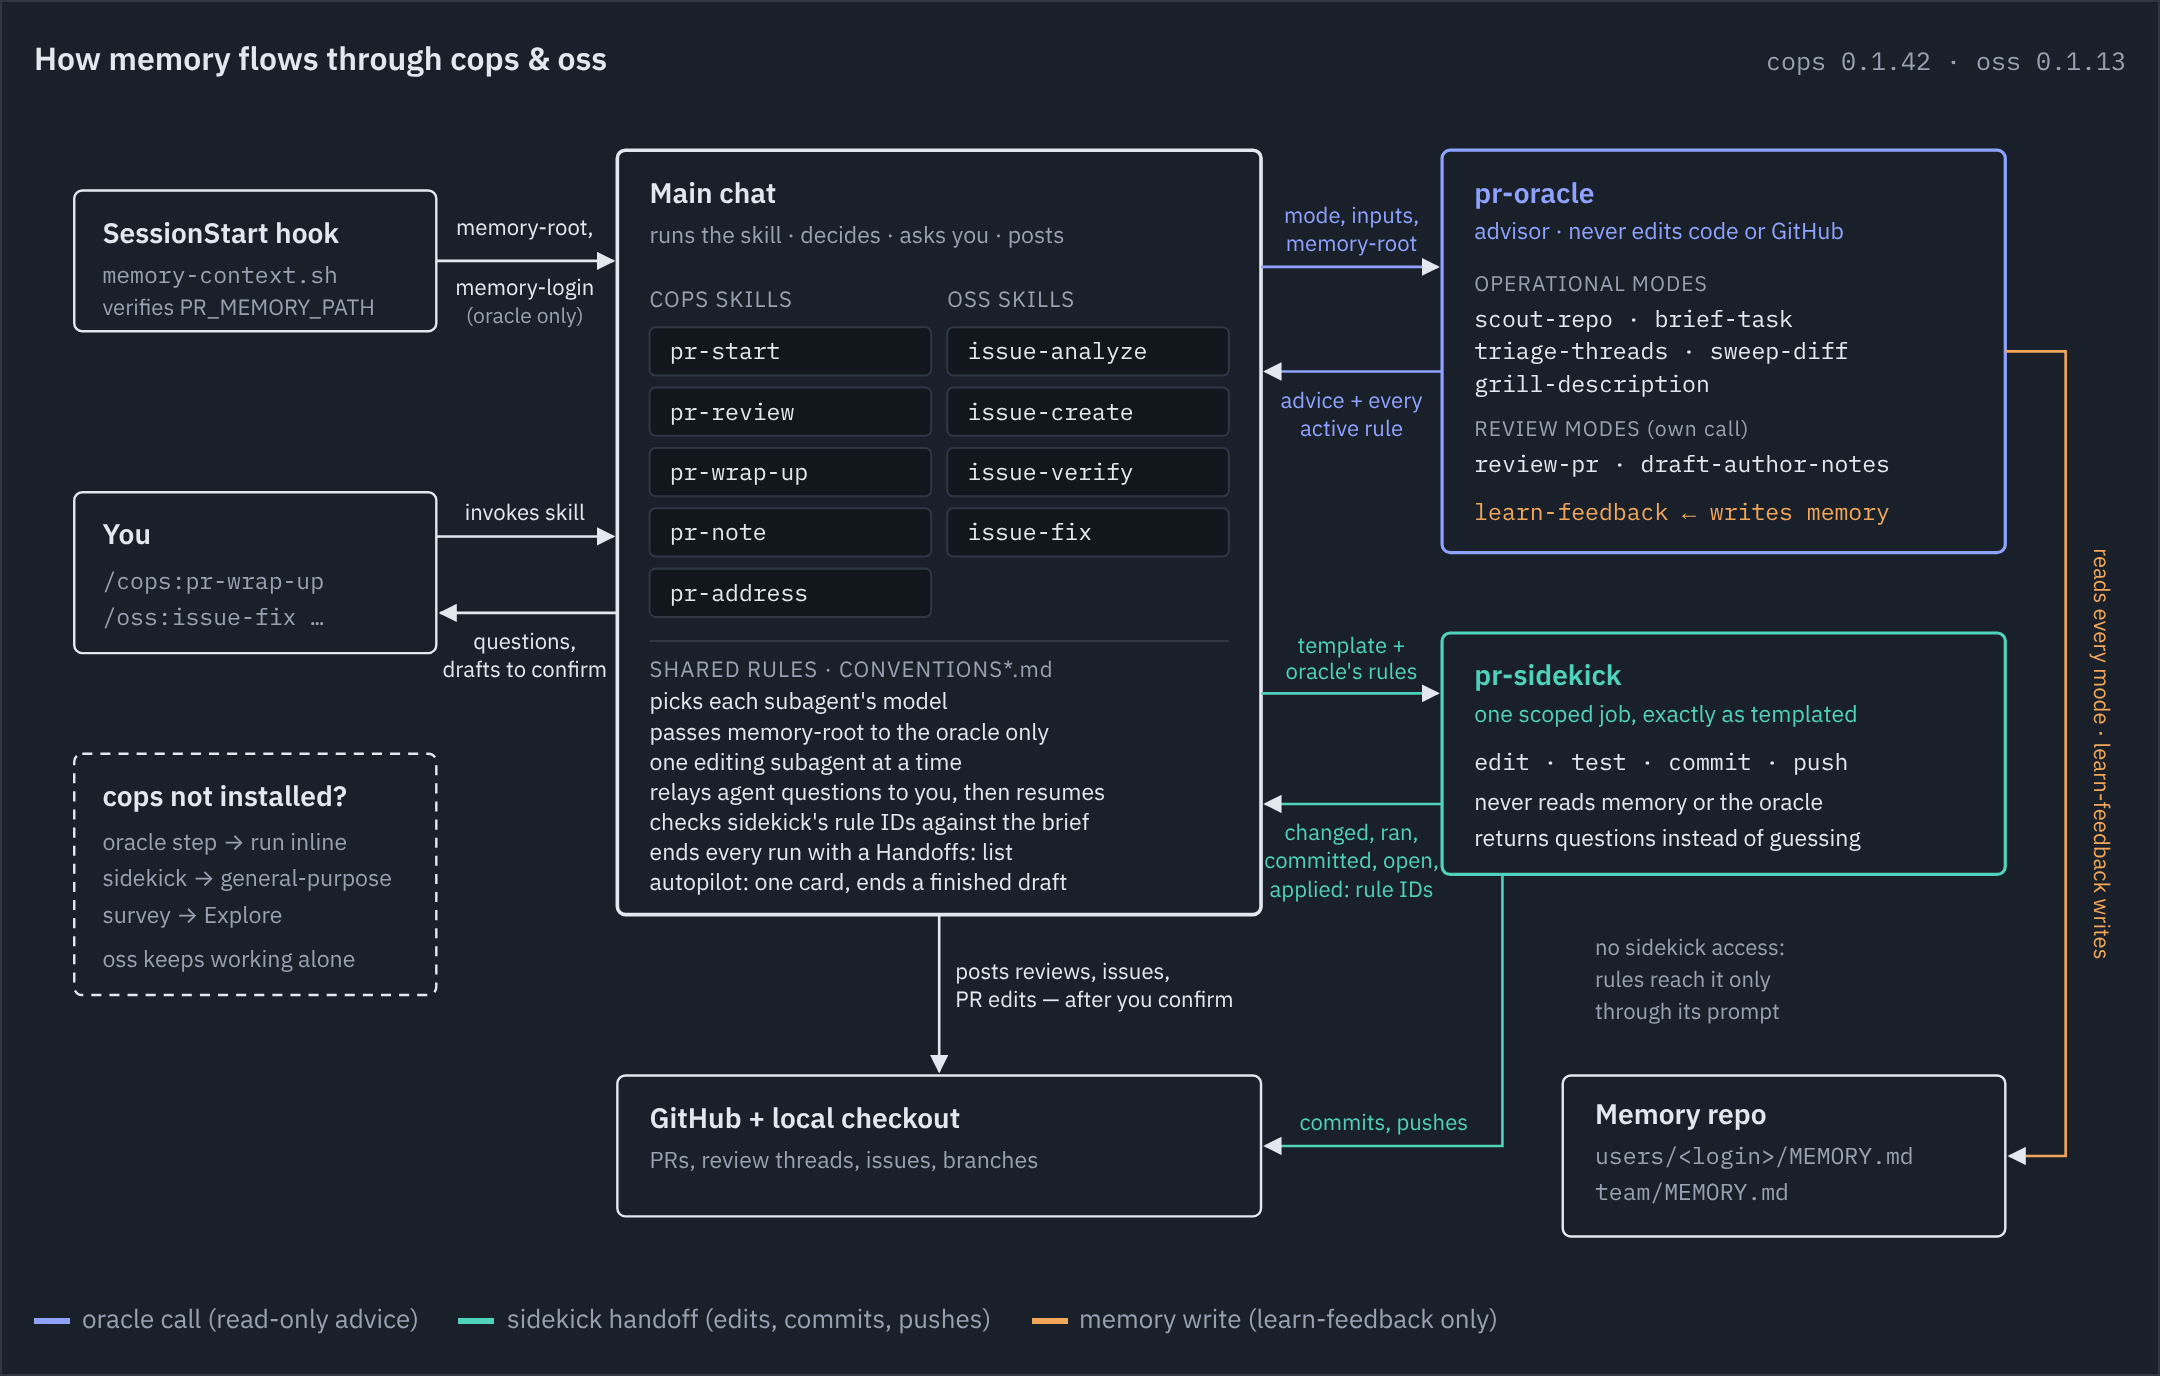
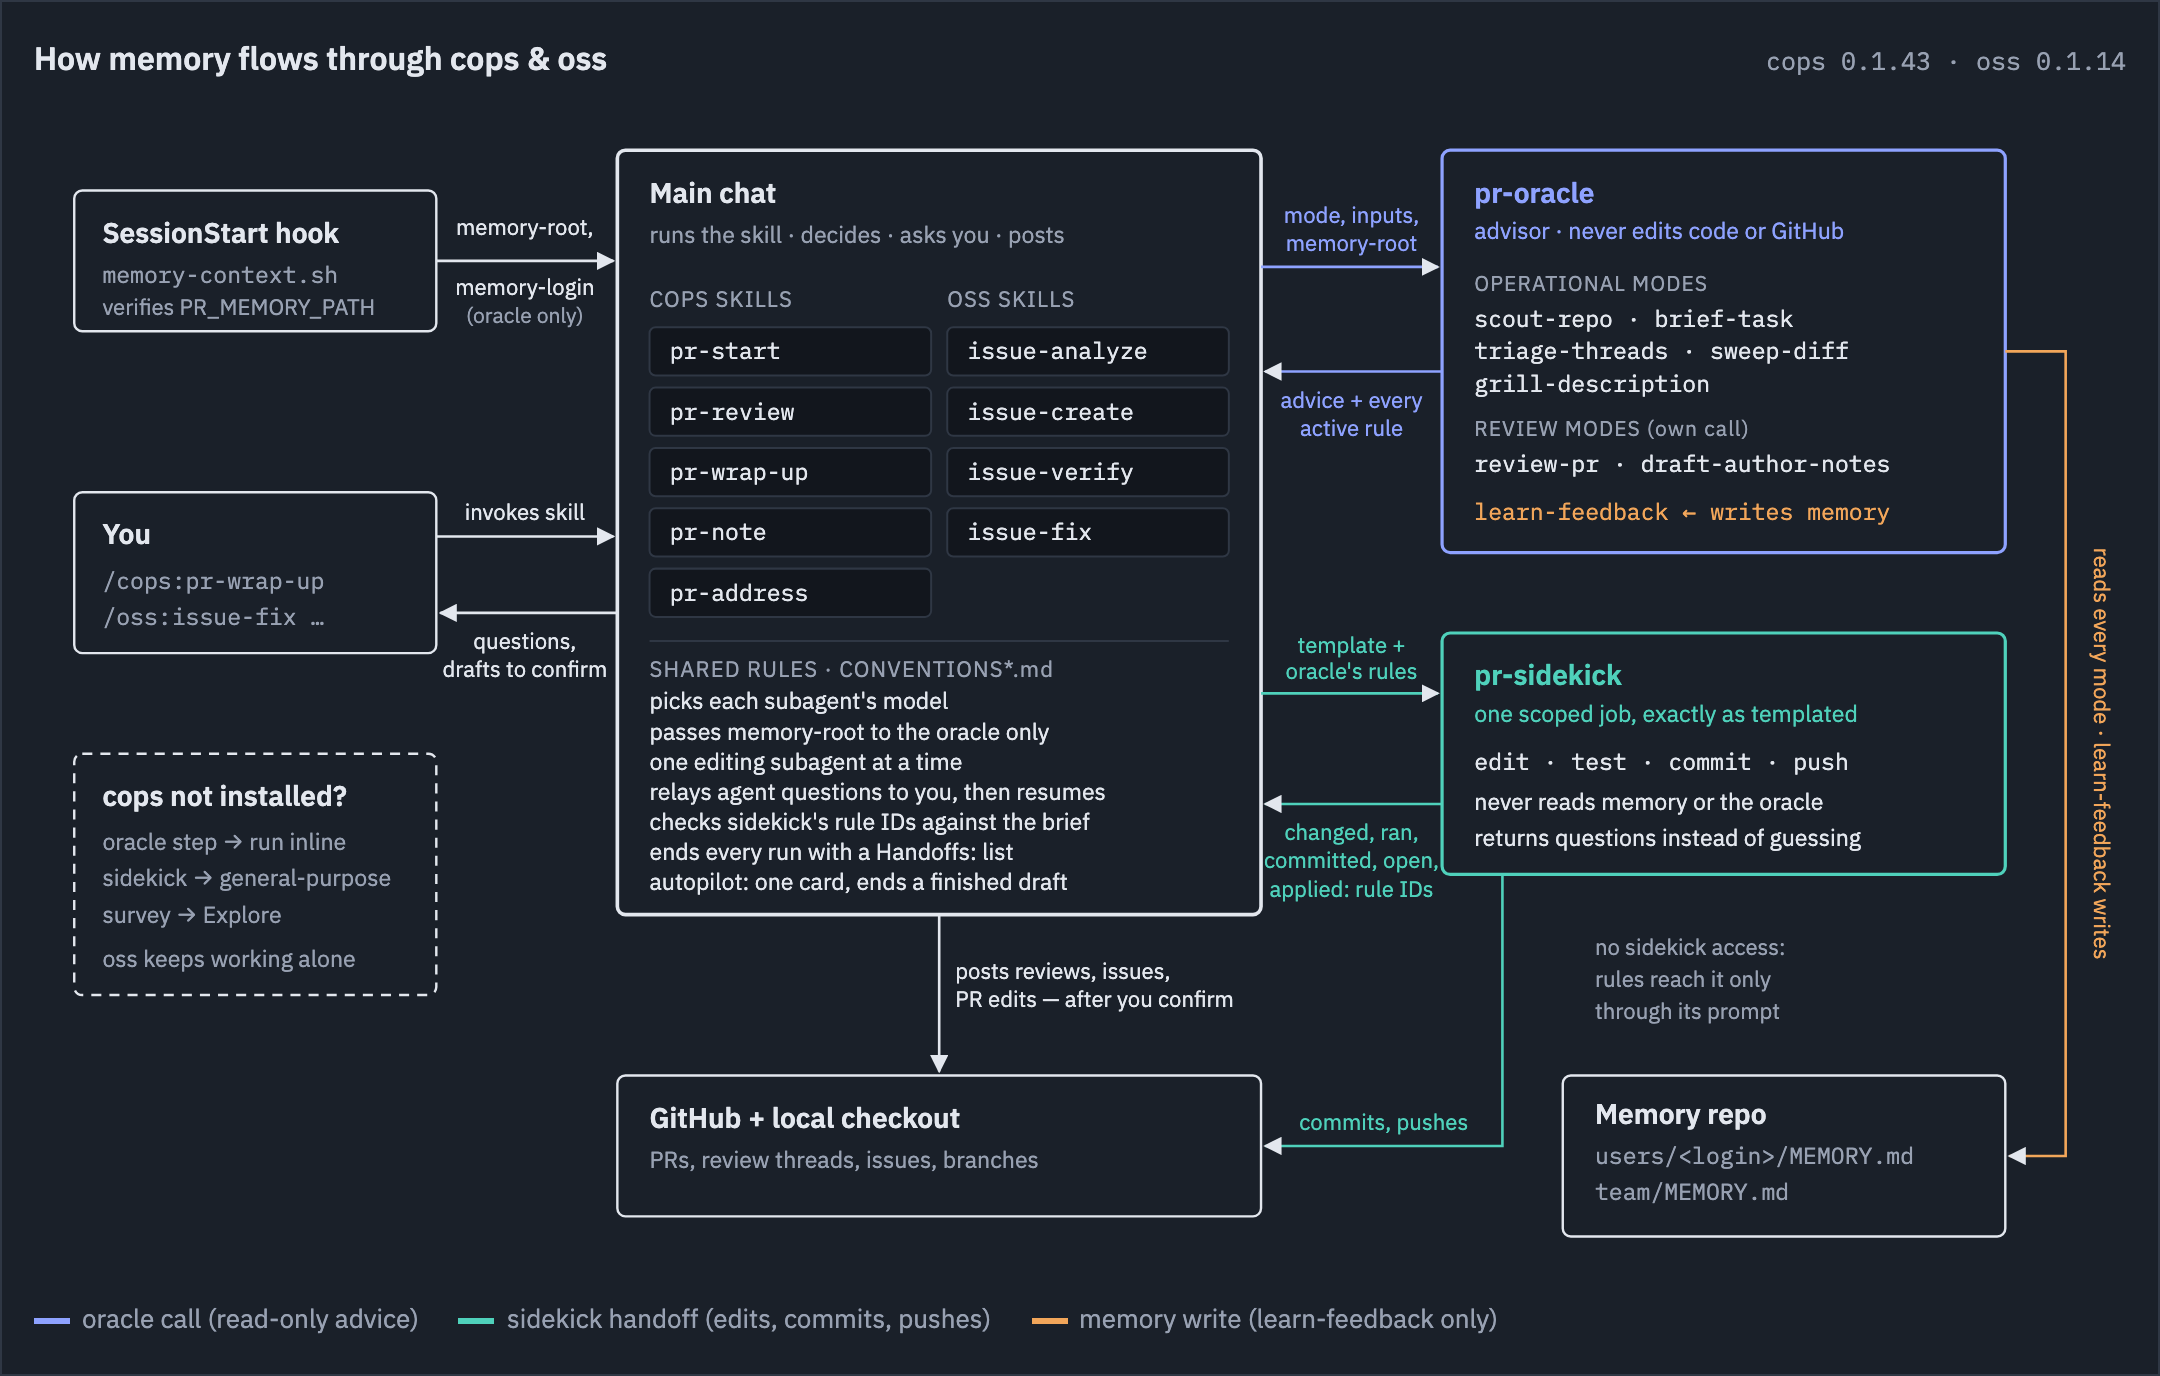
[cops][oss] chore: bump plugin versions and re-render the memory flow diagram
cops 0.1.42 to 0.1.43, oss 0.1.13 to 0.1.14, with the version stamp in
docs/memory-flow.html and a fresh docs/memory-flow.png.

diff --git a/docs/memory-flow.html b/docs/memory-flow.html
@@ -41,7 +41,7 @@ svg .w { color: var(--write); } svg .w text { fill: var(--write); }
 <figure>
   <header>
     <strong>How memory flows through cops &amp; oss</strong>
-    <span id="versions">cops 0.1.42 · oss 0.1.13</span>
+    <span id="versions">cops 0.1.43 · oss 0.1.14</span>
   </header>
   <svg viewBox="0 0 1040 580" role="img" aria-label="The main chat runs a cops or oss skill. It calls pr-oracle for read-only advice and pr-sidekick for edit, test, commit and push loops. A SessionStart hook injects the memory root. Only the oracle receives the memory root and reads the memory repo, and only its learn-feedback mode writes it. The oracle's brief lists every active rule and the sidekick gets them only through its prompt; main chat checks the sidekick accounted for each rule ID.">
     <defs>
